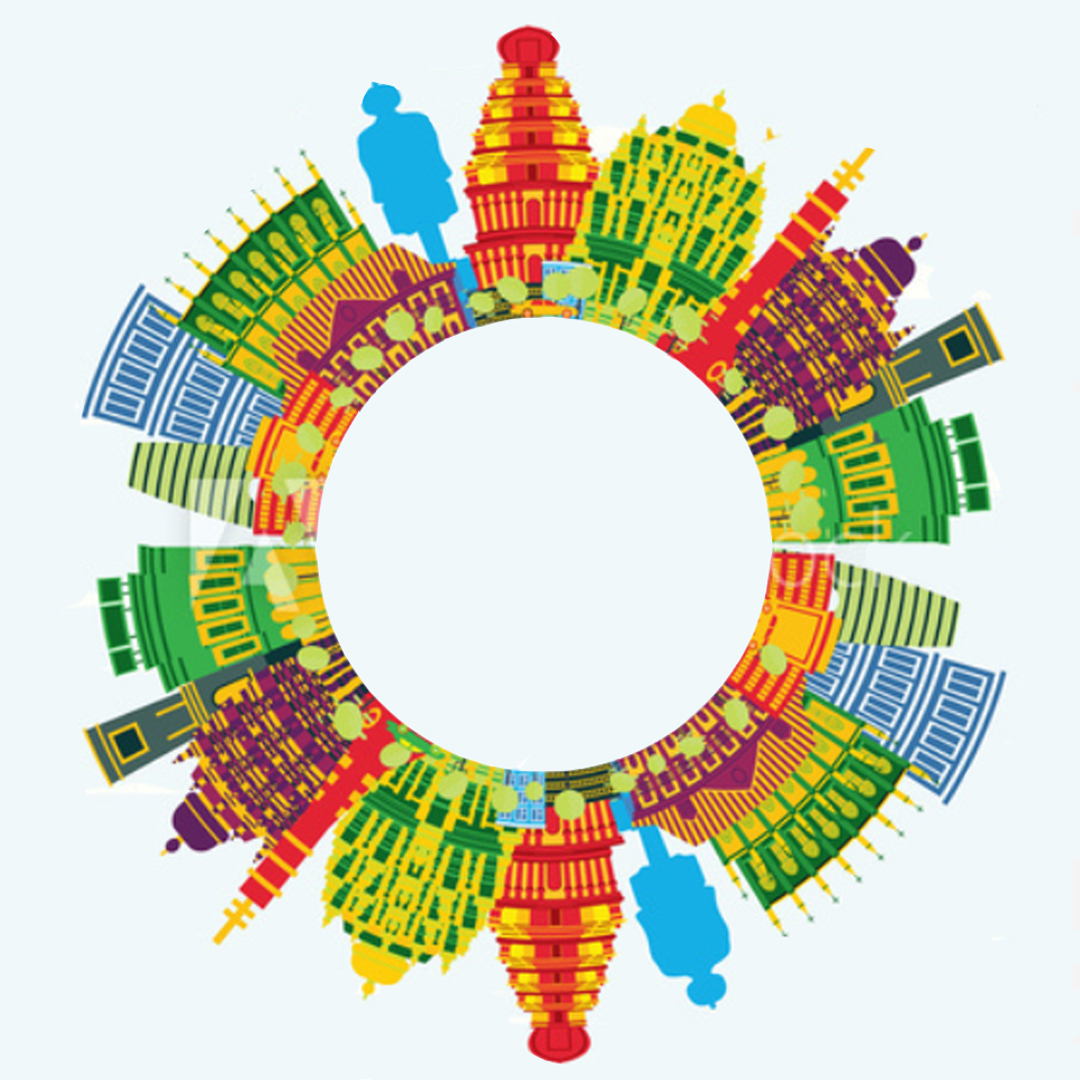
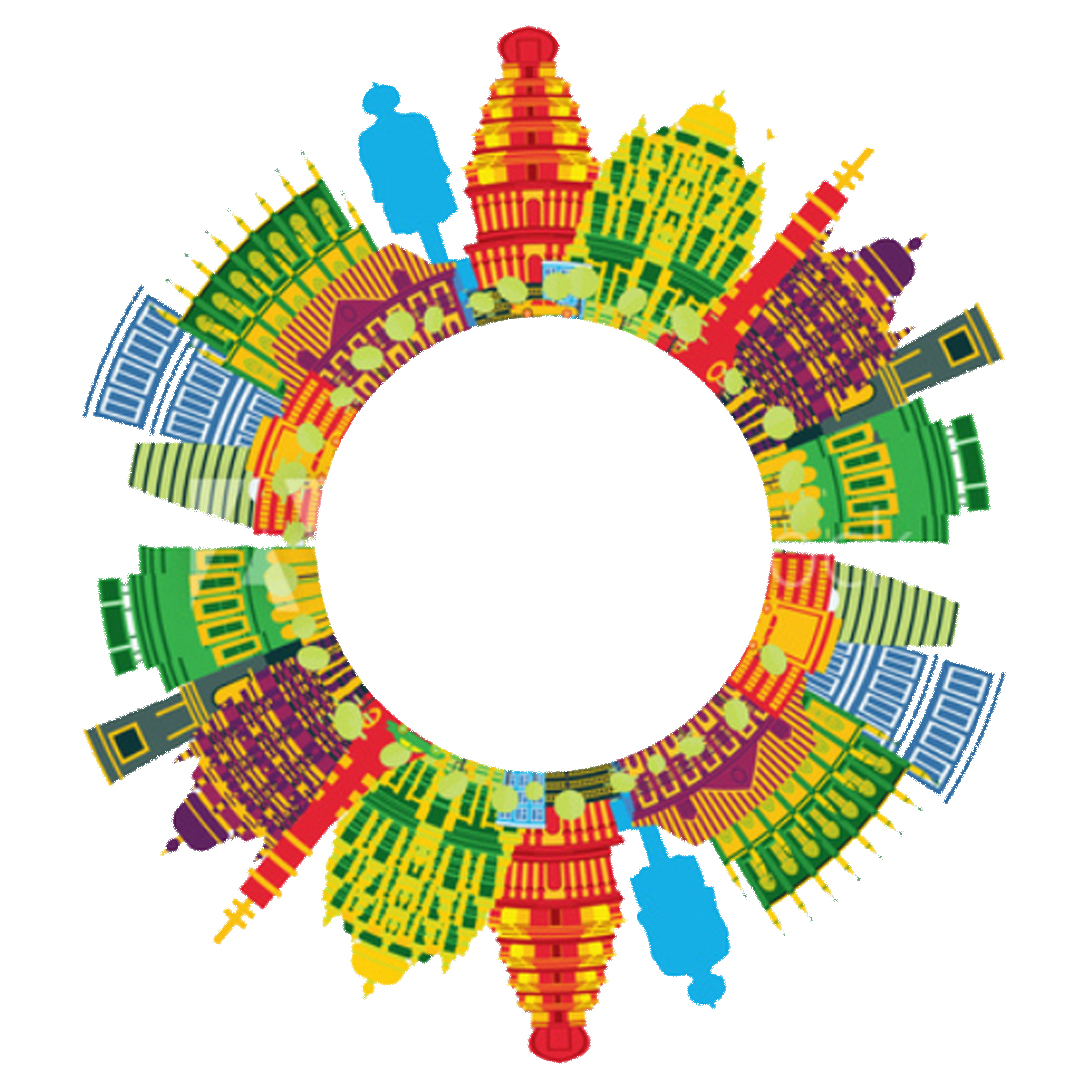
improvised graph

diff --git a/public/assets/graphs.js b/public/assets/graphs.js
@@ -7,6 +7,15 @@ console.log(questionNumber);
 
 let newY = 0;
 let newX = 0;
+let labels = [
+  "2014-15",
+  "2015-16",
+  "2016-17",
+  "2017-18",
+  "2018-19",
+  "2019-20",
+  "",
+];
 
 //Function to go to the next question or submit the data
 const nextQuestion = async () => {
@@ -35,8 +44,8 @@ const showResult = (res) => {
 
 //Dataset matrix
 const graphValues = [
-  [200, 100, 125, 80, 80],
-  [150, 80, 55, 100, 100],
+  [289, 306, 332, 361, 384, 384],
+  [289, 306, 332, 361, 384, 384],
 ];
 
 //Function to re-render chart based on click
@@ -68,6 +77,8 @@ const chartClicked = async (event) => {
   const selectedVal = Math.ceil(newY / 10) * 10;
   myChart.data.datasets[0].data.pop();
   myChart.data.datasets[0].data.push(selectedVal);
+  console.log(labels);
+
   myChart.update();
   const res = await axios.get("/check", {
     params: { level: questionNumber, value: selectedVal },
@@ -81,24 +92,84 @@ document.getElementById(
 ).innerHTML = `Q.${questionNumber}  :  What is the budget for XYZ in 2020 for your state?`;
 const canvasRef = document.getElementById("myChart");
 let ctx = canvasRef.getContext("2d");
+var gradient = null;
+var width = null;
+var height = null;
+
+var gradientStroke = ctx.createLinearGradient(1585, 0, 100, 0);
+gradientStroke.addColorStop(0, "#ff471a");
+gradientStroke.addColorStop(0.5, "#ff471a");
+gradientStroke.addColorStop(0.5, "#fcbf1e");
+gradientStroke.addColorStop(1, "#fcbf1e");
+let draw = Chart.controllers.line.prototype.draw;
+Chart.controllers.line = Chart.controllers.line.extend({
+  draw: function () {
+    draw.apply(this, arguments);
+    let ctx = this.chart.chart.ctx;
+    let _stroke = ctx.stroke;
+    ctx.stroke = function () {
+      ctx.save();
+      ctx.shadowColor = "#394052";
+      ctx.shadowBlur = 8;
+      ctx.shadowOffsetX = 10;
+      ctx.shadowOffsetY = 10;
+      _stroke.apply(this, arguments);
+      ctx.restore();
+    };
+  },
+});
 
 let myChart = new Chart(ctx, {
   type: "line",
   data: {
-    labels: [2016, 2017, 2018, 2019, 2020, ""],
+    labels: labels,
     datasets: [
       {
         label: "Budget",
         //Using question number as index to use from dataset matrix
         data: graphValues[questionNumber - 1],
         backgroundColor: "transparent",
-        borderColor: "blue",
+        borderColor: function (myChart) {
+          var chartArea = myChart.chart.chartArea;
+          if (!chartArea) {
+            // This case happens on initial chart load
+            return null;
+          }
+          var chartWidth = chartArea.right - chartArea.left;
+          var chartHeight = chartArea.bottom - chartArea.top;
+
+          if (
+            gradient === null ||
+            width !== chartWidth ||
+            height !== chartHeight
+          ) {
+            // Create the gradient because this is either the first render
+            // or the size of the chart has changed
+            width = chartWidth;
+            height = chartHeight;
+            var ctx = myChart.chart.ctx;
+            gradient = ctx.createLinearGradient(
+              chartArea.left,
+              0,
+              chartArea.right,
+              0
+            );
+
+            gradient.addColorStop(0, "yellow");
+            gradient.addColorStop(0.67, "yellow");
+            gradient.addColorStop(0.67, "red");
+            gradient.addColorStop(1, "red");
+          }
+
+          return gradient;
+        },
         borderWidth: 4,
-        pointHitRadius: 10,
-        pointBackgroundColor: "white",
-        pointBorderColor: "#55bae7",
-        pointHoverBackgroundColor: "white",
-        pointHoverBorderColor: "#55bae7",
+        pointRadius: 5,
+        pointHoverRadius: 7,
+        pointBackgroundColor: "yellow",
+        pointBorderColor: gradientStroke,
+        pointHoverBackgroundColor: "blue",
+        pointHoverBorderColor: gradientStroke,
       },
     ],
   },
@@ -123,6 +194,7 @@ let myChart = new Chart(ctx, {
       });
       showResult(res);
     },
+
     elements: {
       line: {
         tension: 0,
@@ -134,19 +206,25 @@ let myChart = new Chart(ctx, {
         {
           scaleLabel: {
             display: true,
-            labelString: "Budget (in Crore)",
-            fontColor: "Black",
+            labelString: "Budget (in Lakh)",
+            fontColor: "black",
             fontSize: 20,
+            color: "black",
           },
           ticks: {
             beginAtZero: true,
-            max: 250,
+            max: 500,
+            min: 200,
             fontColor: "black",
+            color: "black",
           },
           gridLines: {
-            zeroLineColor: "rgba(38,38,38,1)",
+            zeroLineColor: "black",
+            display: true,
+            fontColor: "black",
+            color: "black",
           },
-          label: "Budget (in Crore)",
+          label: "Budget (in Lakh)",
         },
       ],
       xAxes: [
@@ -154,15 +232,19 @@ let myChart = new Chart(ctx, {
           scaleLabel: {
             display: true,
             labelString: "Year",
-            fontColor: "Black",
+            fontColor: "black",
             fontSize: 20,
+            color: "black",
           },
           ticks: {
-            beginAtZero: true,
+            beginAtZero: false,
             fontColor: "black",
           },
           gridLines: {
-            zeroLineColor: "rgba(38,38,38,1)",
+            zeroLineColor: "black",
+            display: true,
+            fontColor: "black",
+            color: "black",
           },
         },
       ],

diff --git a/public/index.html b/public/index.html
@@ -7,23 +7,32 @@
     />
     <style>
       body {
+        font-family: -apple-system, system-ui, BlinkMacSystemFont;
+        background-repeat: no-repeat;
+        background-position: center;
+        background-size: cover;
         text-align: center;
         background: -webkit-linear-gradient(
           left,
           black 0%,
-          black 5%,
-          #f0f8fa 5%,
-          #f0f8fa 95%,
-          black 95%,
+          black 3%,
+          #ffffff 3%,
+          #ffffff 97%,
+          black 97%,
           black 100%
         );
       }
+      @font-face {
+        font-family: -apple-system, system-ui, BlinkMacSystemFont;
+        font-weight: 400;
+        src: url("https://applesocial.s3.amazonaws.com/assets/styles/fonts/sanfrancisco/sanfranciscodisplay-regular-webfont.woff");
+      }
       .image {
-        width: 95%;
-        margin: -60px 0 0 -40px;
-        -webkit-animation: spin 60s linear infinite;
-        -moz-animation: spin 60s linear infinite;
-        animation: spin 60s linear infinite;
+        width: 80%;
+        margin: -60px 0 0 -60px;
+        -webkit-animation: spin 70s linear infinite;
+        -moz-animation: spin 70s linear infinite;
+        animation: spin 70s linear infinite;
         border-radius: 50%;
       }
       @-moz-keyframes spin {
@@ -45,21 +54,22 @@
       .container {
         display: flex;
         position: fixed;
-        top: 58%;
-        left: 53%;
+        top: 53%;
+        left: 57%;
         transform: translate(-50%, -50%);
       }
 
       .heading {
-        font-family: "Poppins", sans-serif;
+        font-family: -apple-system, system-ui, BlinkMacSystemFont;
+        color: black;
       }
 
       .startButton {
         /* margin-left: 27%; */
-        font-family: "Poppins", sans-serif;
+        font-family: -apple-system, system-ui, BlinkMacSystemFont;
         position: fixed;
-        top: 46%;
-        left: 42%;
+        top: 45%;
+        left: 31%;
         transform: translate(-50%, -50%);
         background-color: transparent;
         height: 15%;
@@ -75,7 +85,7 @@
         background-image: linear-gradient(
           45deg,
           rgb(20, 23, 223),
-          rgb(20, 223, 20),
+          rgb(9, 95, 9),
           #f51454
         );
         background-size: 100%;
@@ -86,7 +96,8 @@
         background-clip: none;
       }
       a:hover {
-        font-size: 50px;
+        font-size: 45px;
+        text-decoration: black;
       }
     </style>
   </head>

diff --git a/public/style.css b/public/style.css
@@ -1,21 +1,30 @@
 body {
   text-align: center;
+  font-family: -apple-system, system-ui, BlinkMacSystemFont;
   background: -webkit-linear-gradient(
     left,
     black 0%,
-    black 5%,
-    #ddeff3 5%,
-    #ddeff3 95%,
-    black 95%,
+    black 3%,
+    #ffffff 3%,
+    #ffffff 97%,
+    black 97%,
     black 100%
   );
-  font-family: "Poppins", sans-serif;
 }
 .canvas-container {
-  background-color: #cae1e7;
+  /* background-image: url("./assets/backgraph.png"); */
+  /* background-image: linear-gradient(to right, #40bad5, #035aa6);
+  background-repeat: no-repeat;
+  background-position: center; */
+  background-size: cover;
   width: 80%;
   position: fixed;
   top: 50%;
   left: 50%;
   transform: translate(-50%, -50%);
+}
+@font-face {
+  font-family: "San Francisco";
+  font-weight: 400;
+  src: url("https://applesocial.s3.amazonaws.com/assets/styles/fonts/sanfrancisco/sanfranciscodisplay-regular-webfont.woff");
 }

diff --git a/index.js b/index.js
@@ -17,7 +17,7 @@ app.use("/", questionsRouter);
 
 let ans = [];
 
-let correctAns = [150, 80];
+let correctAns = [295, 295];
 
 app.get("/check", (req, res) => {
   const { level, value } = req.query;
